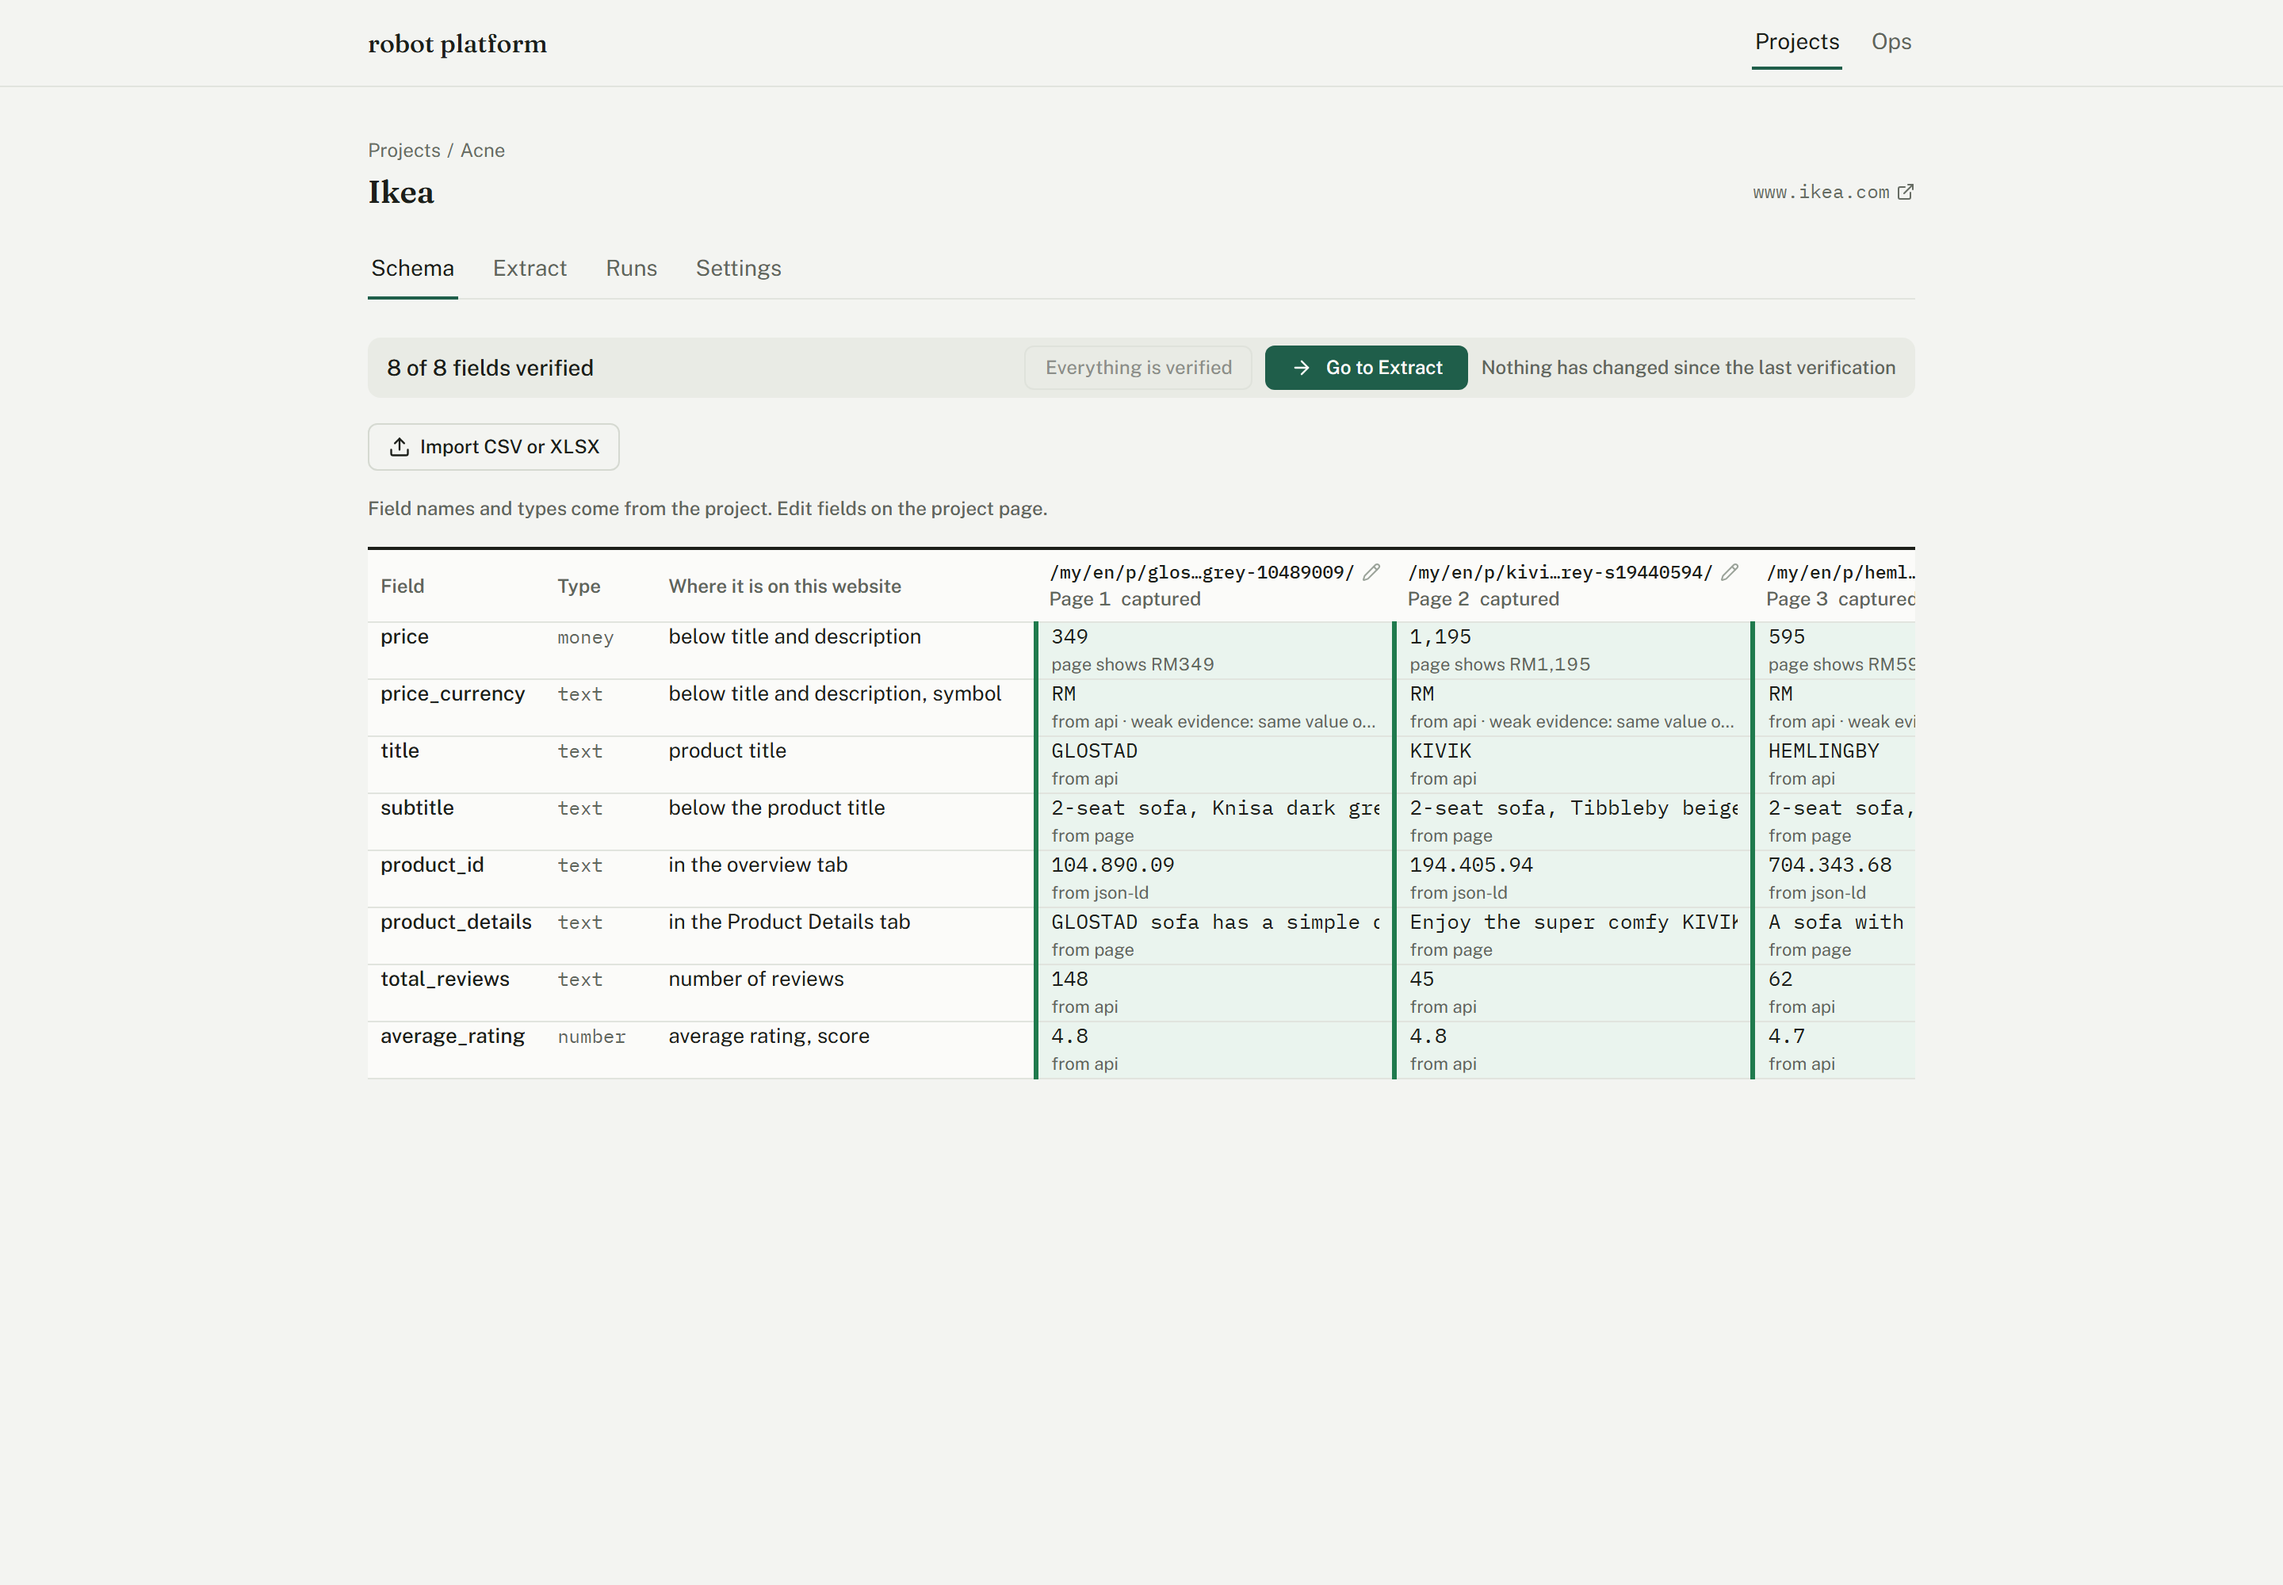
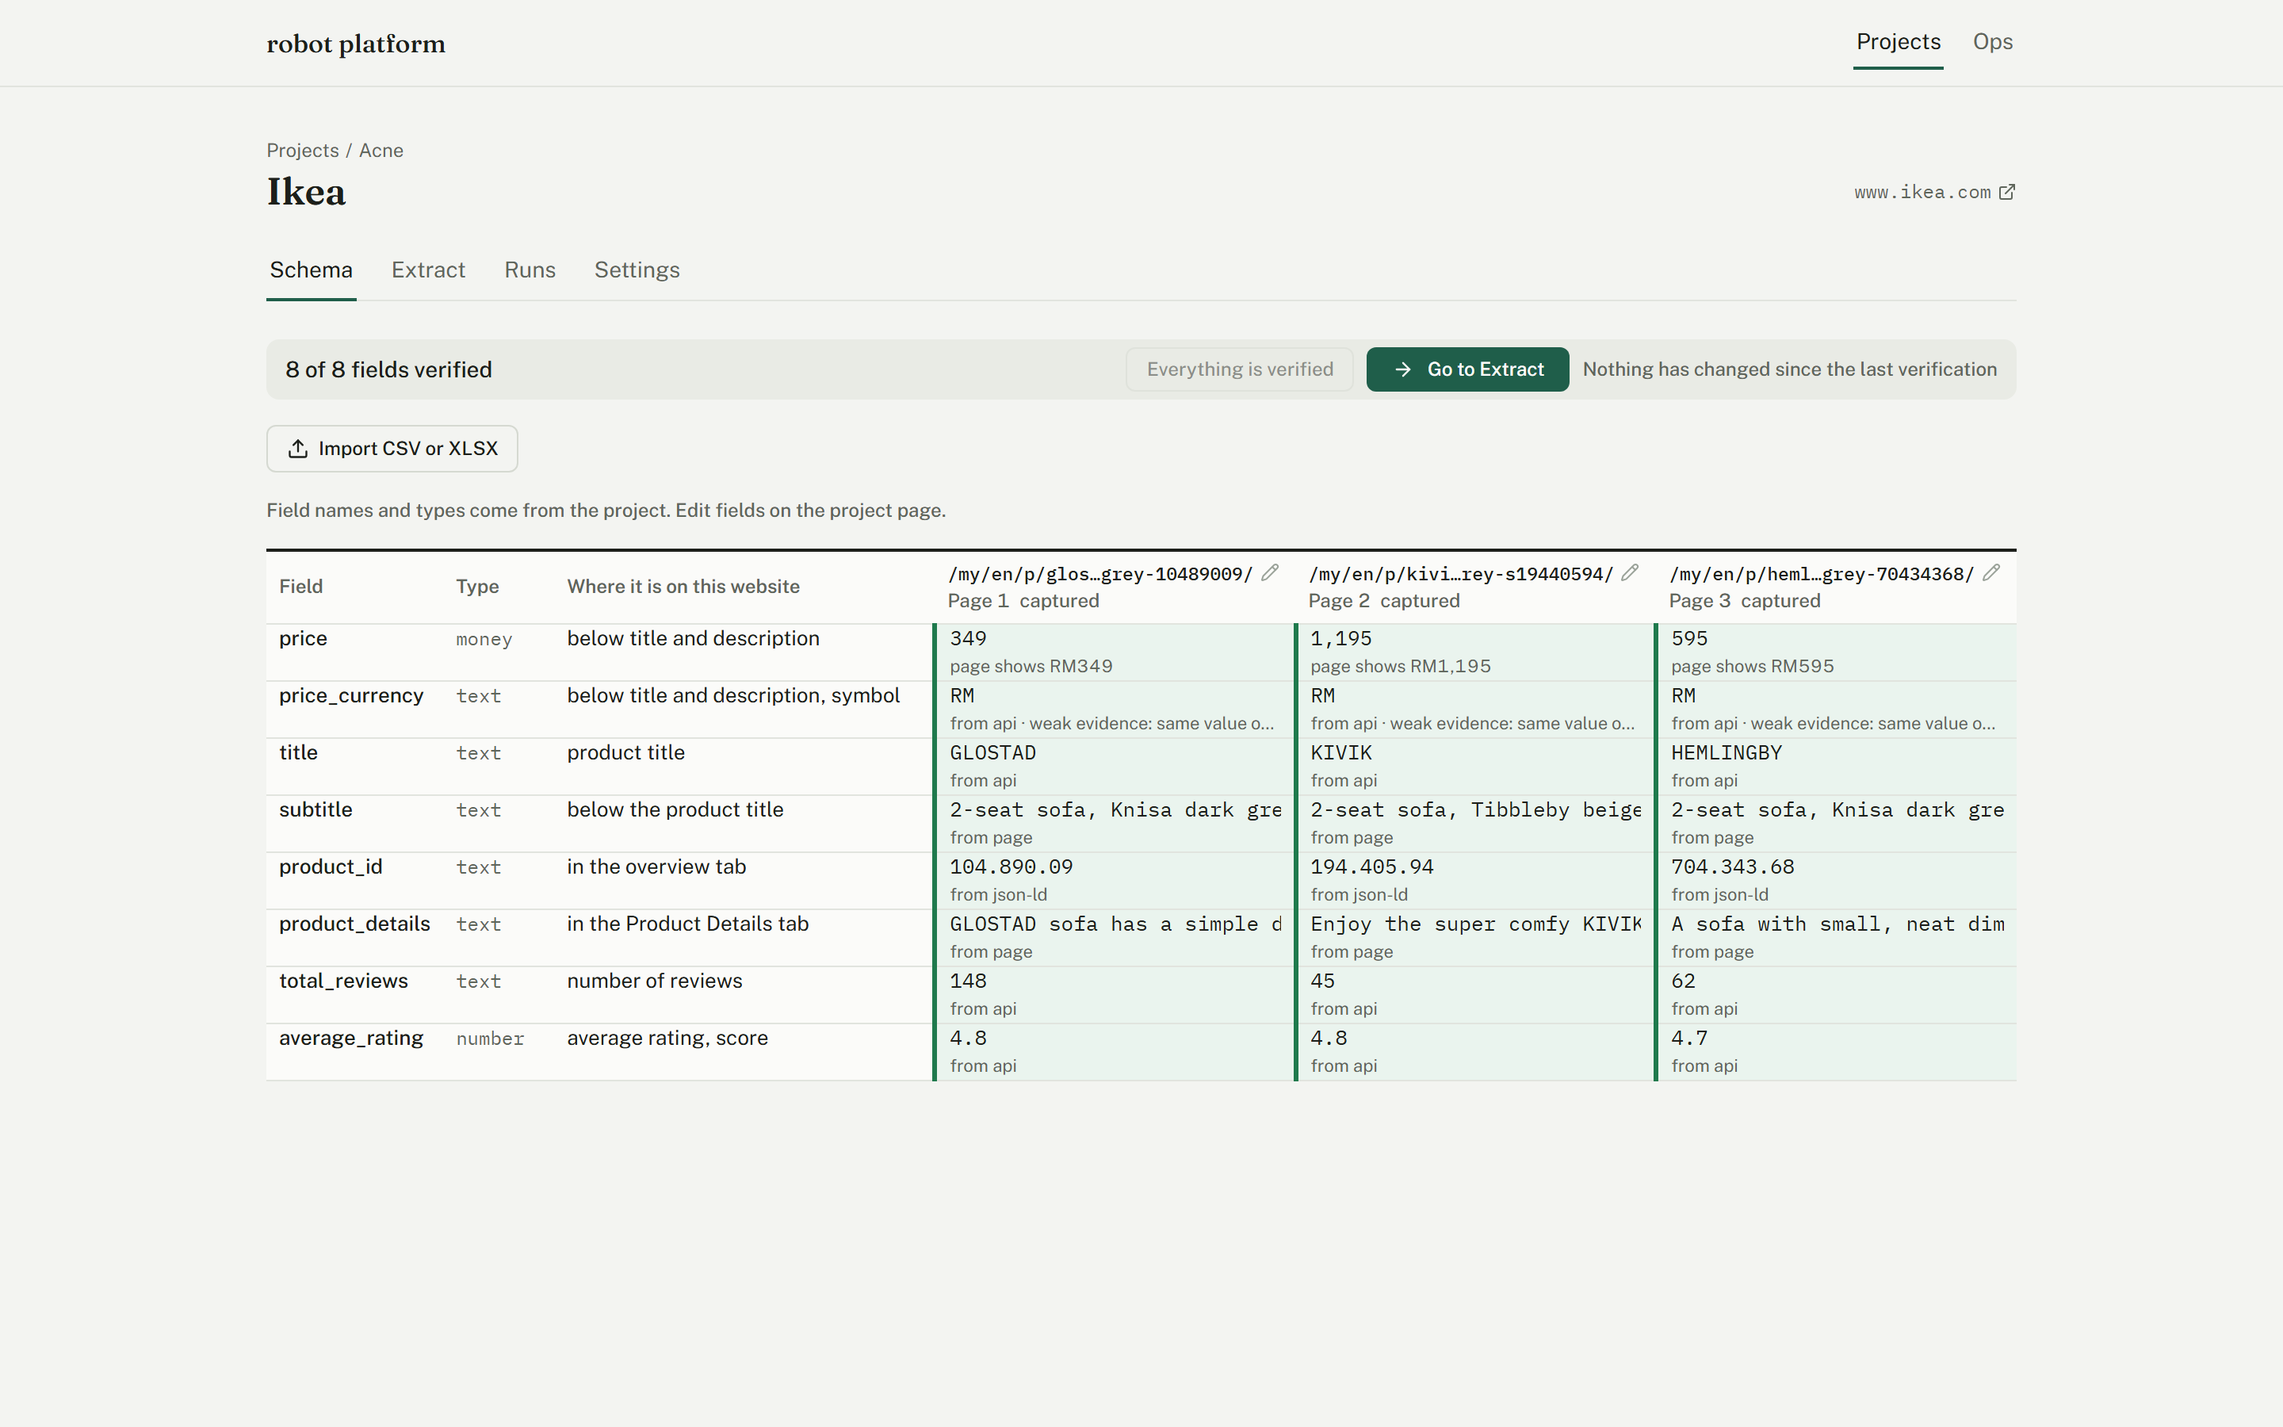
fix(dashboard): widen the content column so the proof sheet is never clipped
The sheet is 1100px wide by design and the app's content column was
max-w-5xl (1024px), so at a common 1440px desktop the third proof page's
column sat outside the wrapper and had to be scrolled into view — the one
place the sheet did not read as a finished document. The column goes to
max-w-6xl (1152px) in both the header and main, which fits the sheet plus
its px-6 padding exactly: the wrapper now measures scrollWidth 1104 against
clientWidth 1104 at 1440x900, with page 3's header ending well inside the
viewport. Checked the projects list and the Extract tab at the wider column.

Claude-Session: https://claude.ai/code/session_01AZ6EysmV6fcq3FxP33KFsw

diff --git a/packages/dashboard/src/components/layout.tsx b/packages/dashboard/src/components/layout.tsx
@@ -12,7 +12,7 @@ export function Layout() {
   return (
     <div className="min-h-screen">
       <header className="border-b border-gray-200 bg-gray-100">
-        <div className="mx-auto flex max-w-5xl items-center justify-between px-6 py-2.5">
+        <div className="mx-auto flex max-w-6xl items-center justify-between px-6 py-2.5">
           <Link to="/" className="font-serif text-base font-medium text-gray-900">
             robot platform
           </Link>
@@ -30,7 +30,7 @@ export function Layout() {
           </nav>
         </div>
       </header>
-      <main className="mx-auto max-w-5xl px-6 py-8">
+      <main className="mx-auto max-w-6xl px-6 py-8">
         <Outlet />
       </main>
     </div>
